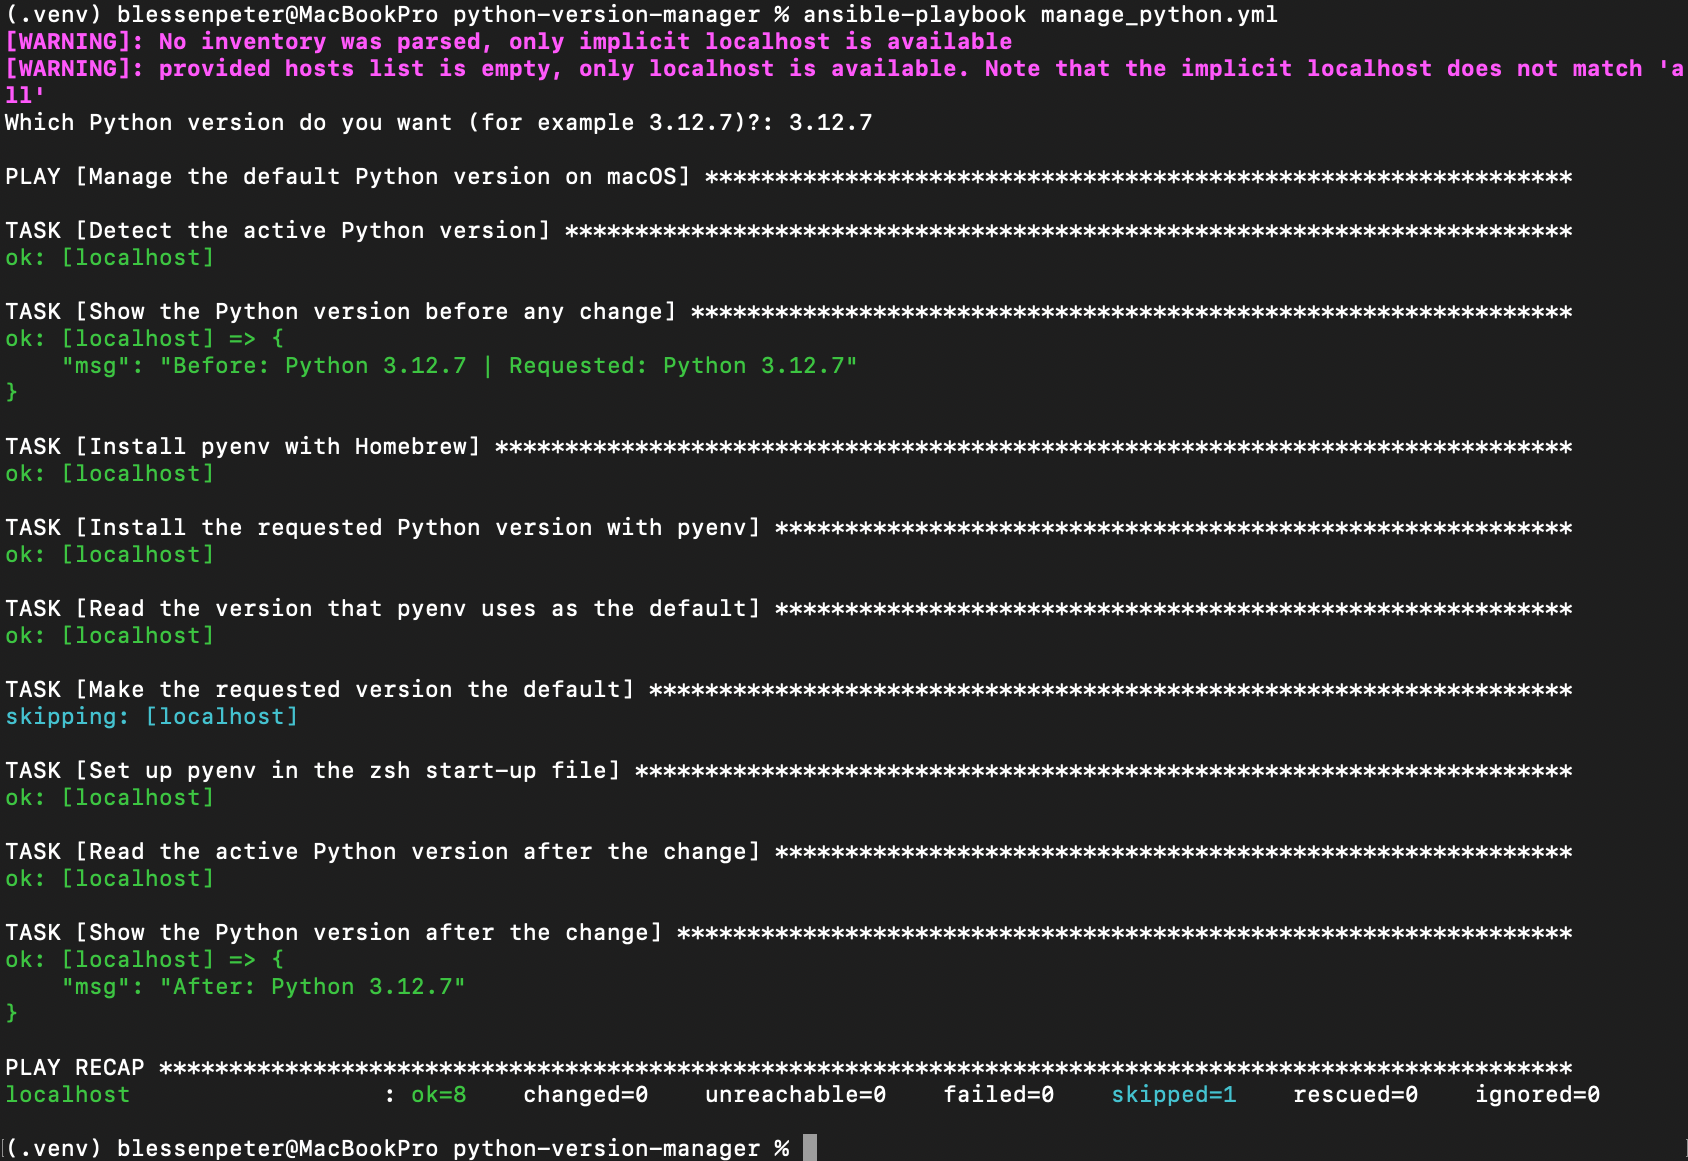
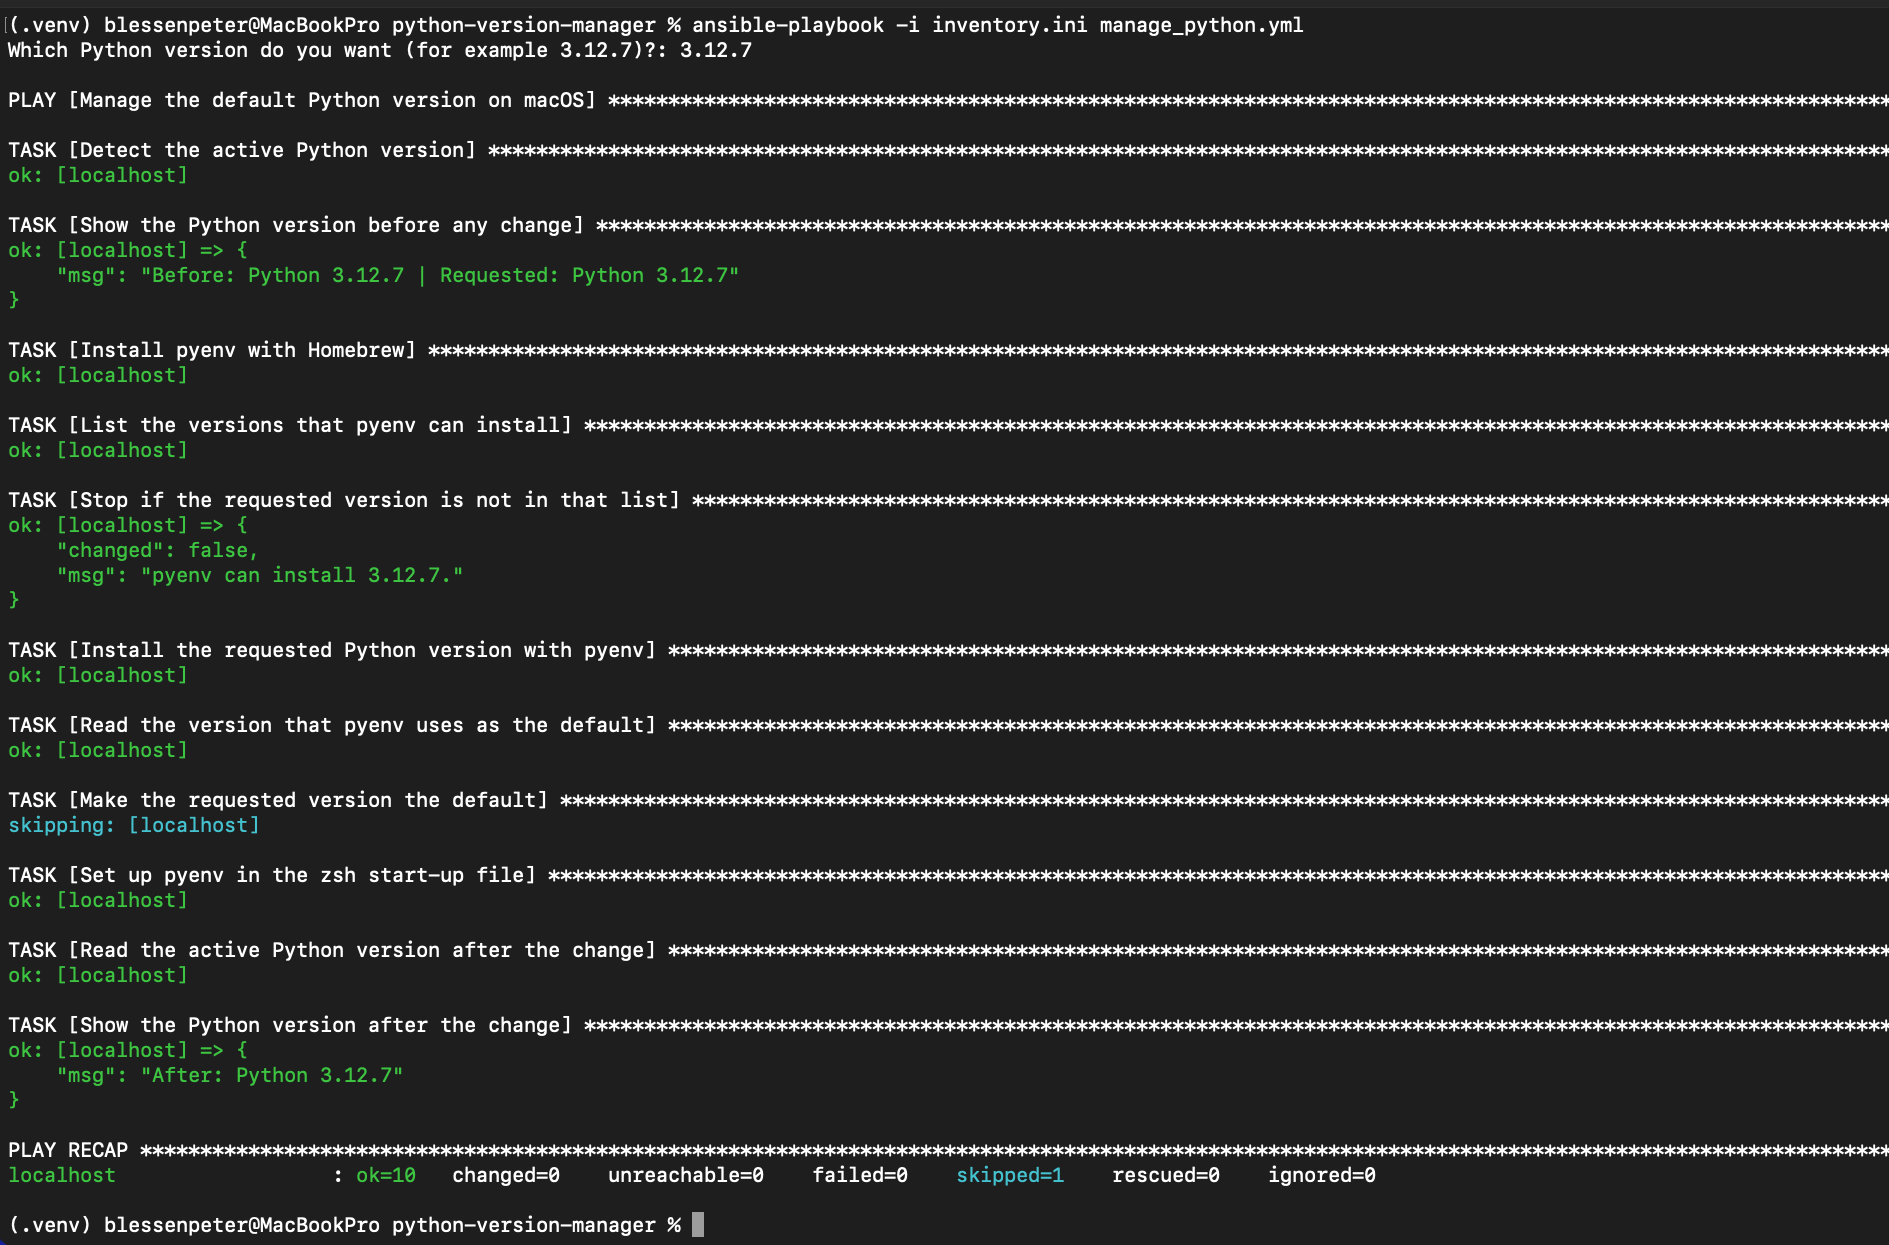
Retake Ansible screenshots with the inventory and tidy the README (#9)

Changed region(s): [[0.0, 0.0, 1.0, 0.8682], [0.0, 0.8992, 1.0, 1.0]]

diff --git a/ansible/python-version-manager/README.md b/ansible/python-version-manager/README.md
@@ -59,27 +59,27 @@ The first installation of a version takes a few minutes, because pyenv builds Py
 
 ### Starting point
 
-The Mac has no `python` command, and `python3` is 3.11.1.
+Before the first run, the Mac has no `python` command, and `python3` is 3.11.1.
 
 ![Starting point](screenshots/01-before.png)
 
-### Upgrade to 3.12.7
+### Switch to a version that is not installed yet
 
-The task that sets the default reports `changed`, and the version after the run is 3.12.7.
+3.11.8 is requested while 3.11.18 is the default. Two tasks report `changed`: the installation of 3.11.8 and the change of the default.
 
-![Upgrade](screenshots/02-upgrade.png)
+![Downgrade to 3.11.8](screenshots/02-downgrade.png)
+
+### Switch to a version that is already installed
+
+3.12.7 is requested. It is already installed, so the installation task reports `ok` and only the change of the default reports `changed`.
+
+![Upgrade to 3.12.7](screenshots/03-upgrade.png)
 
 ### A new terminal uses the requested version
 
 `python` is found in pyenv's `shims` folder and is version 3.12.7.
 
-![New terminal](screenshots/03-new-terminal.png)
-
-### Downgrade to 3.11.18
-
-3.11.18 was not installed, so two tasks report `changed`: the installation and the change of the default.
-
-![Downgrade](screenshots/04-downgrade.png)
+![New terminal](screenshots/04-new-terminal.png)
 
 ### Idempotency
 
@@ -93,15 +93,13 @@ A second run with the same version reports `changed=0`. The task that sets the d
 
 ![Invalid version](screenshots/06-invalid-version.png)
 
-The upgrade, downgrade and idempotency screenshots were taken before the inventory file was added, so they show Ansible's two "no inventory" warnings. With `-i inventory.ini` the warnings do not appear, as in the last screenshot.
-
 ## Behaviour by starting state
 
 | Requested | State before the run | `changed` | Work done |
 |---|---|---|---|
 | 3.12.7 | No pyenv lines in `~/.zshrc` | 1 | Block added to `~/.zshrc` |
 | 3.12.7 | Everything already in place | 0 | None |
-| 3.11.18 | Version not installed | 2 | Version installed and made the default |
+| 3.11.8 | Version not installed | 2 | Version installed and made the default |
 | 3.12.7 | Installed, but not the default | 1 | Default switched |
 | 3.99.0 | Any | 0 | None; the play stops at the version check |
 
@@ -116,7 +114,7 @@ The upgrade, downgrade and idempotency screenshots were taken before the invento
 
 ```bash
 pyenv global system          # use the system Python again
-pyenv uninstall 3.11.18      # remove a version that is no longer needed
+pyenv uninstall 3.11.8       # remove a version that is no longer needed
 ```
 
 To stop the shell from using pyenv, delete the marked block from `~/.zshrc` and open a new terminal window.
